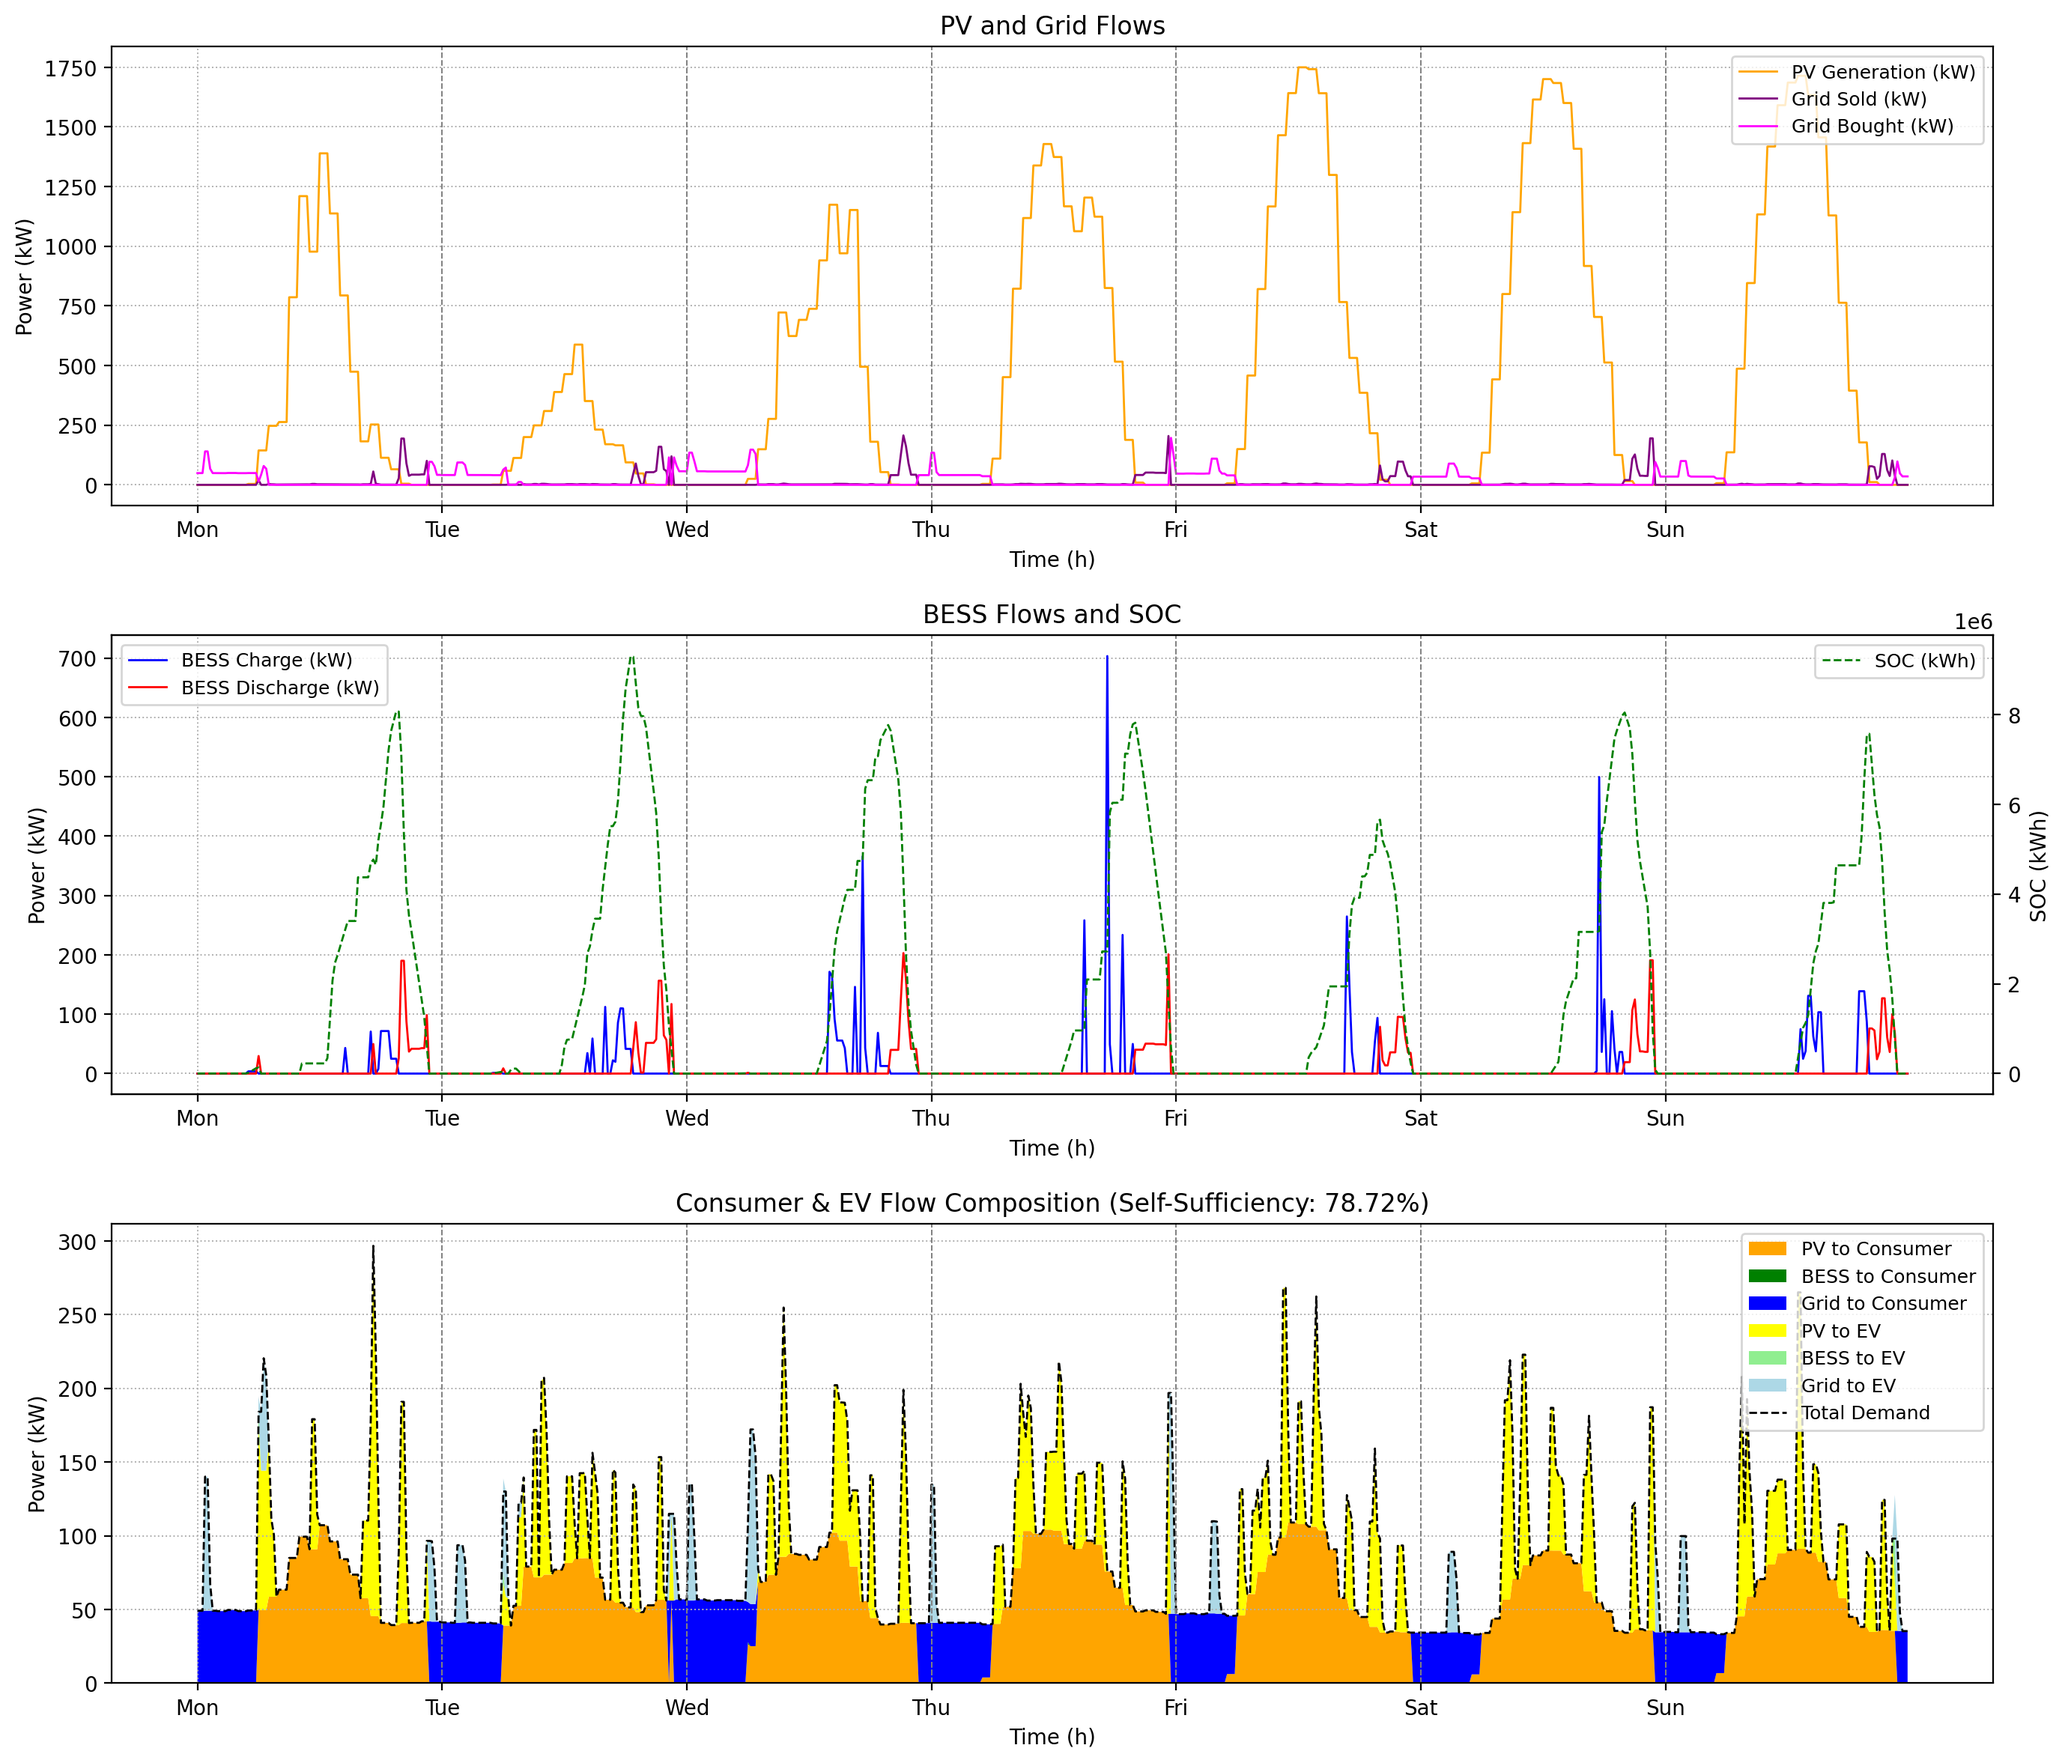
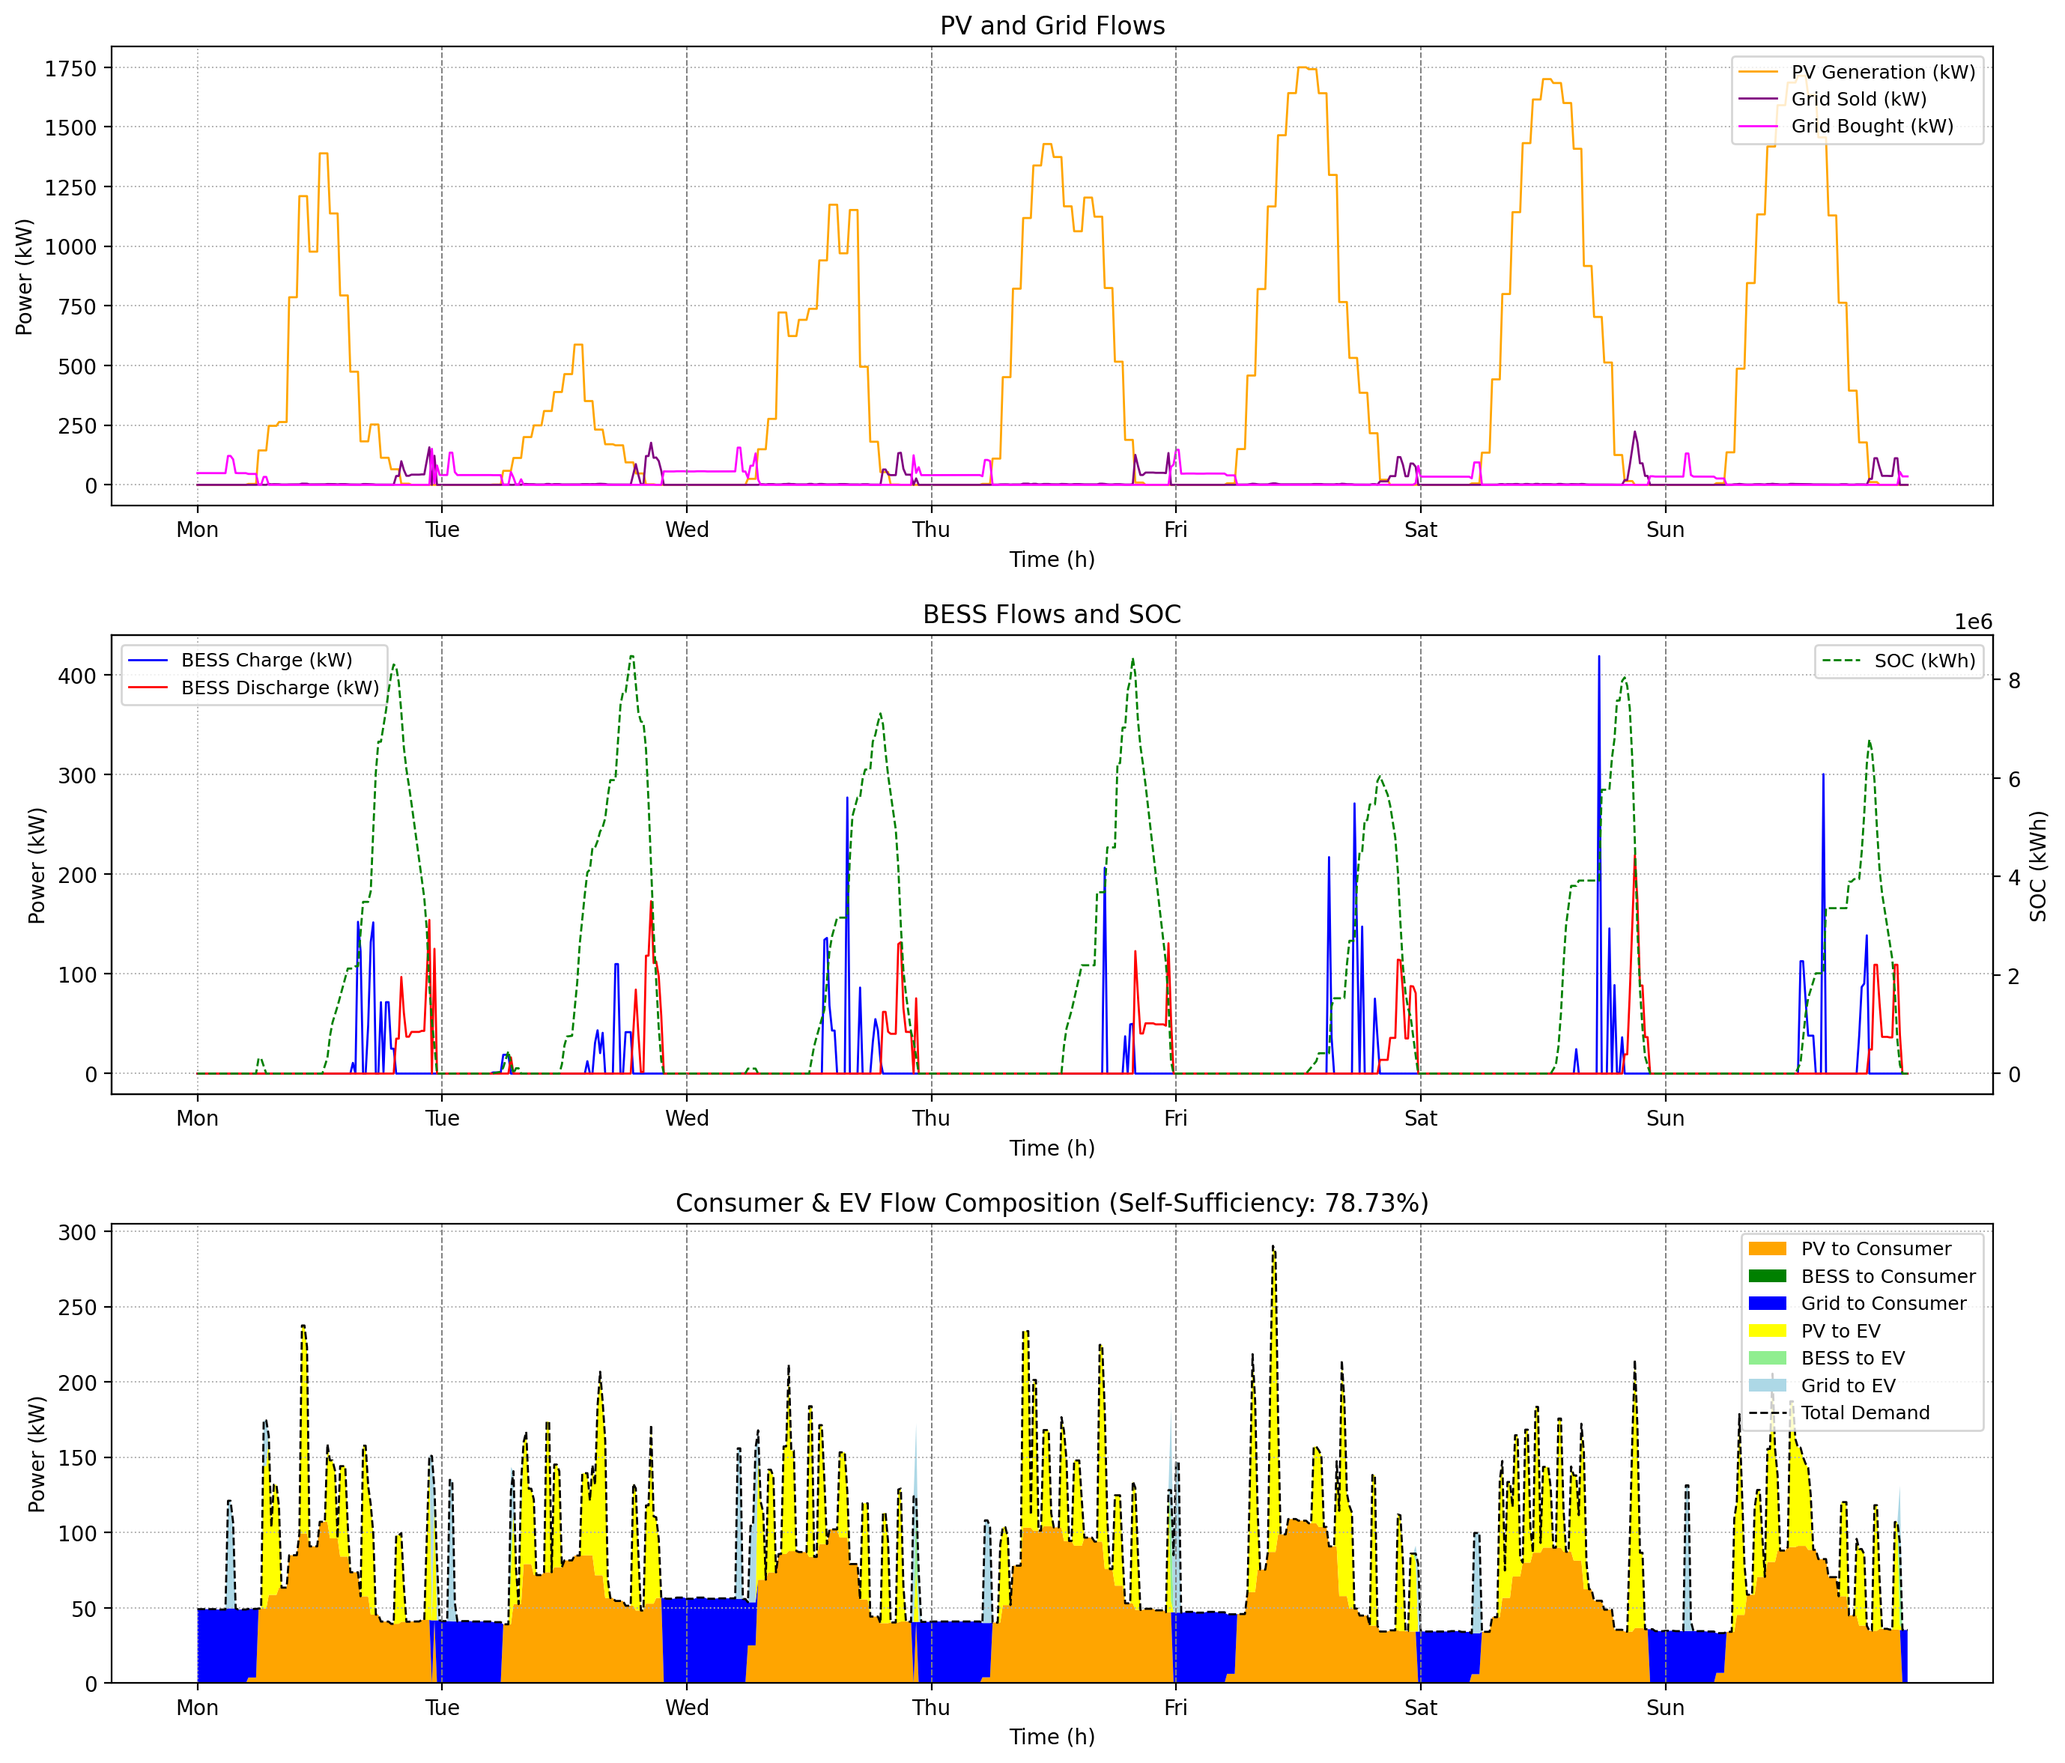
...

diff --git a/Computing Files/mpc.py b/Computing Files/mpc.py
@@ -44,8 +44,8 @@ class MPC:
         n.add("Bus", "DC")
         n.add("Bus", "Grid")
 
-        # Add DC/AC converter (trafo) with zero marginal cost
-        n.add("Link", "DC_AC_Converter", bus0="DC", bus1="AC", p_nom=self.bess_power_limit*2, efficiency=0.98, marginal_cost=0)
+        # Add DC/AC converter (trafo) with zero marginal cost and very large power limit
+        n.add("Link", "DC_AC_Converter", bus0="DC", bus1="AC", p_nom=1e6, efficiency=0.98, marginal_cost=0)
 
         # Add PV generator (DC bus) with zero marginal cost
         n.add("Generator", "PV", bus="DC", p_nom=max(pv_forecast), p_max_pu=pv_forecast/np.max(pv_forecast), marginal_cost=0)
